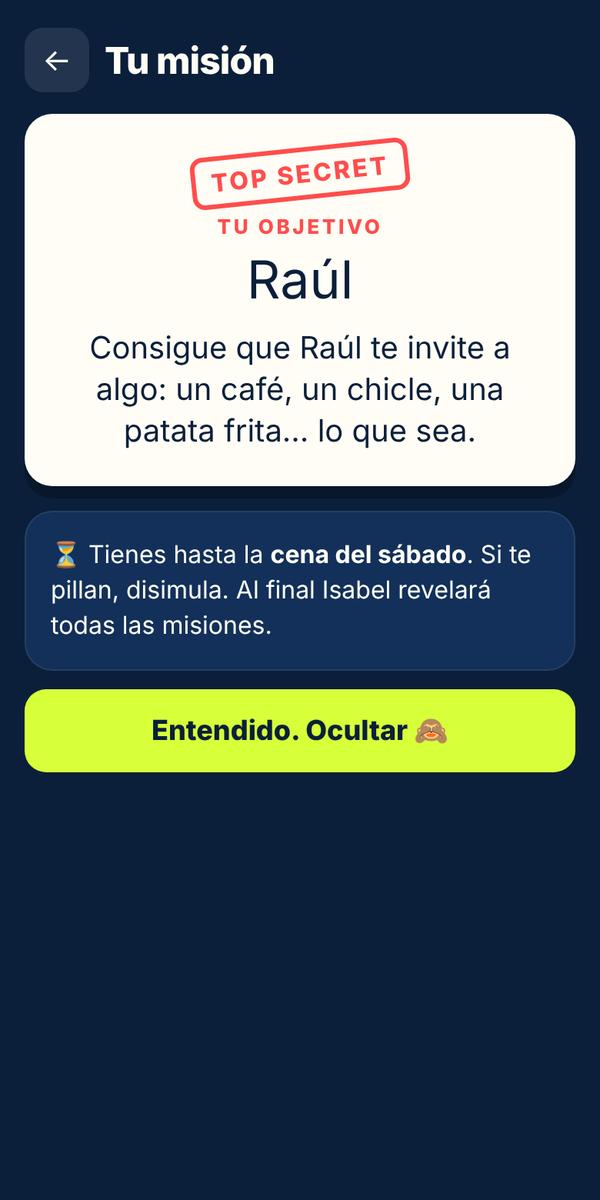
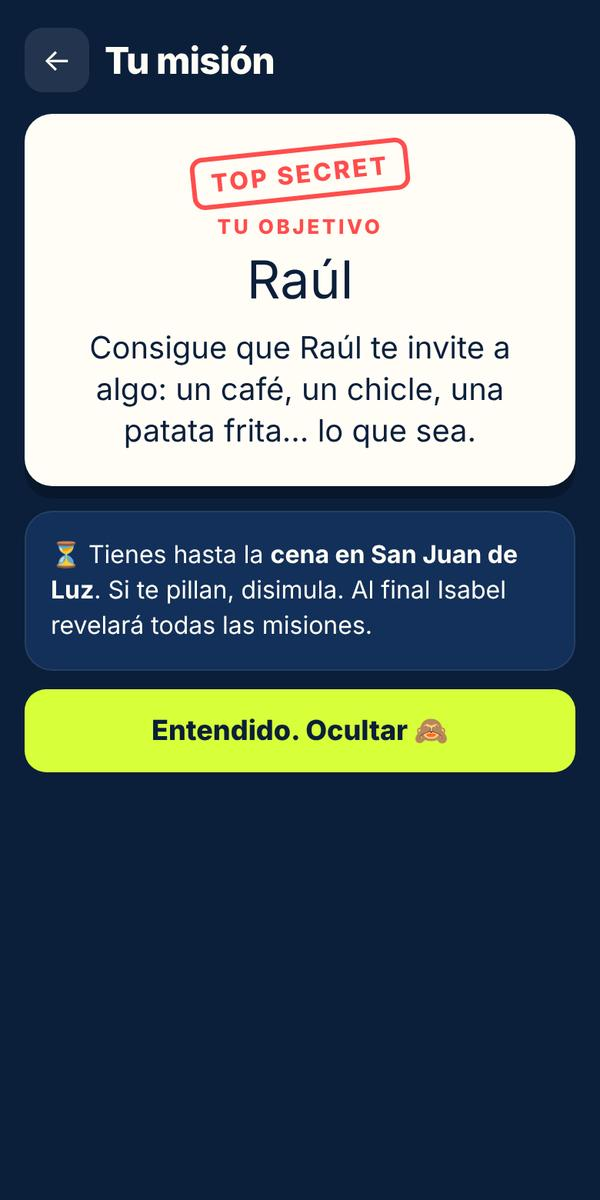
Consejos de veteranos, misión nueva, itinerario real (Alcalá, Burgos, San Juan de Luz) y 3 preguntas más
Claude-Session: https://claude.ai/code/session_016PK8MS4tbaT5dERcZ1YUJ1

Changed region(s): [[0.09, 0.4317, 0.87, 0.555]]

diff --git a/index.html b/index.html
@@ -138,6 +138,7 @@ const COCHES = [
   { id:4, nombre:"Coche de Paula Rovira",conductor:"Paula Rovira", pasajeros:["Rosa","Sandra"] },
   { id:5, nombre:"Coche de Jorge",       conductor:"Jorge",        pasajeros:["José Enrique","Merche","Maite"] },
 ];
+const VETERANOS = ["Luis","Fernando","Raúl"];
 const PIN_PRESENTADORA = "1919";
 const CODIGO_RONDA2 = "MORCILLA";
 const SEGUNDOS = 25;
@@ -148,29 +149,31 @@ const MISIONES = [
   "Hazte un selfie en el que salga {T} detrás de ti sin que se dé cuenta.",
   "Consigue que {T} diga la palabra «agujetas».",
   "Logra que {T} te enseñe una foto de su móvil (mascota, hijos, vacaciones…).",
-  "Choca los cinco con {T} tres veces antes de la cena del sábado.",
-  "Haz que {T} pruebe algo típico de Burgos y que te dé las gracias.",
+  "Choca los cinco con {T} tres veces antes de la cena en San Juan de Luz.",
+  "Haz que {T} pruebe algo típico de Burgos en el desayuno y que te dé las gracias.",
   "Averigua cuál es la carrera o el reto deportivo más loco que ha hecho {T}.",
   "Consigue que {T} te dé un consejo para la carrera… y que te lo repita.",
   "Logra que {T} cante, aunque sea un trozo, alguna canción.",
   "Haz que {T} se ría con un chiste malo tuyo.",
   "Averigua de qué pueblo es la familia de {T}.",
   "Consigue que {T} te preste algo (gorra, gafas, boli…) y devuélveselo al final.",
-  "Haz que {T} diga «¡Aupa!» sin pedírselo directamente.",
-  "Consigue sentarte al lado de {T} en la cena del sábado.",
+  "Averigua cuál es la comida o el plato favorito de {T}.",
+  "Consigue sentarte al lado de {T} en la cena de San Juan de Luz.",
   "Hazte una foto con {T} en la que los dos pongáis exactamente la misma pose.",
   "Consigue que {T} te diga cuál es su canción para correr.",
 ];
 
 const RONDAS = {
-  1: { titulo:"Ronda 1 · Madrid → Burgos", preguntas:[
+  1: { titulo:"Ronda 1 · Alcalá → Burgos", preguntas:[
     { q:"¿Cuántos coches forman esta expedición?", o:["3","4","5","6"], a:2,
       f:"Cinco coches rumbo a Donosti. ¡Una caravana de campeones!" },
+    { q:"Habéis salido de Alcalá de Henares. ¿Qué famoso escritor nació allí?", o:["Lope de Vega","Quevedo","Cervantes","Góngora"], a:2,
+      f:"Miguel de Cervantes, en 1547. Y la ciudad es Patrimonio de la Humanidad por su universidad y su casco histórico." },
     { q:"¿Cuántos kilómetros tiene la Behobia–San Sebastián?", o:["21,097 km","20 km","18 km","25 km"], a:1,
       f:"Son 20 km, no una media maratón. ¡Aunque con las cuestas parecen más!" },
     { q:"¿En qué año se corrió la primera Behobia?", o:["1919","1951","1936","1979"], a:0,
       f:"El 30 de marzo de 1919. Más de 100 años de historia." },
-    { q:"Saliendo de Madrid por la A-1, ¿qué puerto de montaña cruzáis?", o:["Navacerrada","Somosierra","Despeñaperros","Pajares"], a:1,
+    { q:"Rumbo a Burgos por la A-1, ¿qué puerto de montaña cruzáis?", o:["Navacerrada","Somosierra","Despeñaperros","Pajares"], a:1,
       f:"Somosierra, a unos 1.444 m. Al otro lado ya estáis en la provincia de Segovia, en Castilla y León." },
     { q:"¿Cuántos del grupo ya han corrido la Behobia antes?", o:["Ninguno","Uno","Tres","Todos"], a:2,
       f:"Luis, Fernando y Raúl. ¡Veteranos, os toca dar consejos!" },
@@ -212,6 +215,8 @@ const RONDAS = {
       f:"El Bidasoa hace de frontera. El Urumea es el que cruza Donosti." },
     { q:"En la Isla de los Faisanes, muy cerca de la salida, se firmó…", o:["La Paz de los Pirineos","El Tratado de Tordesillas","La Paz de Westfalia","La Constitución de Bayona"], a:0,
       f:"En 1659. Es una isla que España y Francia gestionan por turnos de 6 meses." },
+    { q:"En 1660 se casó en San Juan de Luz un rey francés con una infanta española. ¿Quién era el rey?", o:["Luis XVI","Enrique IV","Napoleón","Luis XIV"], a:3,
+      f:"Luis XIV se casó con María Teresa de Austria, y así se selló la Paz de los Pirineos, la de la Isla de los Faisanes." },
     { q:"¿Cuántos corredores tomaron la salida en la primera edición?", o:["7","22","150","1.000"], a:1,
       f:"22 atletas en 1919. Hoy son unos 30.000." },
     { q:"¿Cómo se llama la playa más famosa de Donosti?", o:["Zurriola","Ondarreta","La Concha","Santa Clara"], a:2,
@@ -244,6 +249,8 @@ const RONDAS = {
       f:"La Tamborrada: miles de donostiarras desfilan con tambores y barriles, vestidos de cocineros y soldados." },
     { q:"¿De qué fruta se hace el pacharán?", o:["Cerezas","Moras","Endrinas","Manzanas"], a:2,
       f:"De endrinas maceradas en anís. Típico de Navarra y del País Vasco." },
+    { q:"Esta noche cenáis en San Juan de Luz (Saint-Jean-de-Luz). ¿En qué país está?", o:["España","Andorra","Francia","Portugal"], a:2,
+      f:"En Francia, a un paso de la frontera y muy cerca de la salida de la Behobia." },
     { q:"¿De qué provincia es capital Donostia?", o:["Bizkaia","Álava","Navarra","Gipuzkoa"], a:3,
       f:"De Gipuzkoa. Bilbao es de Bizkaia y Vitoria-Gasteiz, la capital vasca, de Álava." },
   ]},
@@ -275,7 +282,7 @@ const VIEWS = {};
 VIEWS.home = () => {
   app.innerHTML = `
     <div class="bib">
-      <div class="tag">Madrid → Donostia · 8 nov 2026</div>
+      <div class="tag">Alcalá → Donostia · 8 nov 2026</div>
       <div class="num">BEHOBIA</div>
       <div class="sub">Operación de los 5 coches</div>
       <div class="stripe"></div>
@@ -316,7 +323,7 @@ VIEWS.misionVer = i => {
       <div class="target">${esc(objetivo(i))}</div>
       <div class="task">${esc(mision(i))}</div>
     </div>
-    <div class="card" style="margin-top:16px"><p style="margin:0">⏳ Tienes hasta la <b>cena del sábado</b>. Si te pillan, disimula. Al final Isabel revelará todas las misiones.</p></div>
+    <div class="card" style="margin-top:16px"><p style="margin:0">⏳ Tienes hasta la <b>cena en San Juan de Luz</b>. Si te pillan, disimula. Al final Isabel revelará todas las misiones.</p></div>
     <button class="btn" onclick="go('home')">Entendido. Ocultar 🙈</button>`;
 };
 
@@ -428,14 +435,19 @@ VIEWS.porra = () => {
     </select>
     <label>🏃 Tu tiempo</label>
     <input id="tYo" placeholder="Ej.: 1:52" inputmode="numeric">
+    <div id="vet" class="hidden"><label>🎖 Veteranos: un consejo para los que corren su primera Behobia</label>
+    <textarea id="consejo" rows="3" placeholder="Ej.: Guarda fuerzas para Miracruz…"></textarea></div>
     <p class="hint">Formato horas:minutos. Se manda al grupo de WhatsApp para que quede por escrito.</p>
     <button class="btn wa" onclick="enviarPorra()">📲 Enviar mi apuesta al grupo</button></div>`;
+  $("#yo").onchange = e => $("#vet").classList.toggle("hidden", !VETERANOS.includes(e.target.value));
 };
 function enviarPorra(){
-  const yo = $("#yo").value, ty = $("#tYo").value.trim();
+  const yo = $("#yo").value, ty = $("#tYo").value.trim(), co = ($("#consejo")||{}).value || "";
   if(!yo){ alert("Elige tu nombre"); return; }
   if(!ty){ alert("Escribe tu tiempo, por ejemplo 1:52"); return; }
-  window.open(wa(`⏱ PORRA BEHOBIA · ${yo}\n🏃 Mi tiempo: ${ty}`), "_blank");
+  let msg = `⏱ PORRA BEHOBIA · ${yo}\n🏃 Mi tiempo: ${ty}`;
+  if(co.trim()) msg += `\n🎖 Consejo de veterano: ${co.trim()}`;
+  window.open(wa(msg), "_blank");
 }
 
 /* ---------- PRESENTADORA ---------- */
@@ -493,10 +505,10 @@ const GUIA = {
     ["img/nombres.jpg","Toca <b>«Mi misión secreta»</b> y luego <b>tu nombre</b>. Hazlo en <b>tu propio móvil</b> y que nadie mire."],
     ["img/confirmar.jpg","Toca <b>«Sí, soy yo»</b>."],
     ["img/mision.jpg","Lee tu misión y quién es tu <b>objetivo</b>. Después toca <b>«Ocultar»</b>."]],
-    nota:"⏳ Tienes hasta la <b>cena del sábado</b> para cumplirla sin que te pillen. Puedes volver a mirarla cuando quieras.<br>🏆 Al final Isabel las revela todas: cada misión cumplida da <b>50 puntos</b> a tu coche." },
+    nota:"⏳ Tienes hasta la <b>cena en San Juan de Luz</b> para cumplirla sin que te pillen. Puedes volver a mirarla cuando quieras.<br>🏆 Al final Isabel las revela todas: cada misión cumplida da <b>50 puntos</b> a tu coche." },
   concurso: { e:"🧠", t:"El concurso por coches", ir:"quizCoche", pasos:[
     ["img/coches.jpg","Se juega con <b>UN solo móvil por coche</b> (copiloto o alguien de atrás). Toca <b>«Concurso por coches»</b> y elige <b>vuestro coche</b>."],
-    ["img/rondas.jpg","Toca la <b>Ronda 1</b> (Madrid → Burgos)."],
+    ["img/rondas.jpg","Toca la <b>Ronda 1</b> (Alcalá → Burgos)."],
     ["img/pregunta.jpg","Leed la pregunta en voz alta y <b>tocad la respuesta</b>. ¡Hay cuenta atrás! Cuanto antes respondáis, más puntos."],
     ["img/respuesta.jpg","Verde = acierto. Toca <b>«Siguiente»</b>."],
     ["img/resultado.jpg","Al final, toca el botón verde <b>«Mandar resultado al grupo»</b> y elige el grupo de WhatsApp."],
@@ -505,13 +517,14 @@ const GUIA = {
   porra: { e:"⏱", t:"La porra", ir:"porra", pasos:[
     ["img/porra.jpg","Toca <b>«La porra»</b> y elige <b>tu nombre</b> en la lista."],
     [null,"Escribe cuánto crees que vas a tardar <b>tú</b>. Así: <span class='code'>1:55</span> (horas:minutos)."],
+    [null,"Si eres veterano (Luis, Fernando o Raúl), deja un <b>consejo</b> para los que corren su primera Behobia."],
     [null,"Toca el botón verde. Se abre WhatsApp: elige el <b>grupo</b> y dale a <b>enviar</b>."]],
     nota:"🏆 Premio de honor para quien más se acerque a su propia apuesta." },
   puntos: { e:"🏆", t:"Cómo gana un coche", pasos:[
     [null,"<b>Concurso:</b> 100 puntos por acierto y hasta 50 más por responder rápido. Dos rondas de 20 preguntas."],
     [null,"<b>Reto de Burgos:</b> en la parada, Isabel anuncia un reto para cada coche. Hasta 100 puntos."],
     [null,"<b>Misiones secretas:</b> 50 puntos al coche por cada misión cumplida."],
-    [null,"En la <b>cena del sábado</b> Isabel revela las misiones y enseña la clasificación final."]] },
+    [null,"En la <b>cena en San Juan de Luz</b> Isabel revela las misiones y enseña la clasificación final."]] },
 };
 function helpBtn(k, from){ return `<button class="helplink" onclick="go('guia',{k:'${k}',from:'${from}'})">❓ ¿Cómo funciona esto? Toca aquí</button>`; }
 
@@ -543,10 +556,12 @@ VIEWS.guiaIsabel = () => {
     <div class="card"><h3>🔑 Tus claves</h3><p style="font-size:18px;margin-bottom:0">PIN del panel: <span class="code">${PIN_PRESENTADORA}</span><br>Código ronda 2: <span class="code">${CODIGO_RONDA2}</span></p></div>
     <div class="gwarn">📱 Usa <b>siempre este mismo móvil</b> para el panel: los puntos se guardan aquí. En tu coche, que lleve el concurso <b>Lucía</b>. ¡Tú no mires las preguntas!</div>
     <h3 style="margin:18px 0 10px">🗓 Qué hacer en cada momento</h3>
-    <div class="tl"><b>🚗 Salida de Madrid</b><span>Manda el enlace. Que todos vean su misión. Cada coche juega la <b>Ronda 1</b>.</span></div>
-    <div class="tl"><b>☕ Parada en Burgos</b><span>Entra en el panel. Di en voz alta el código <span class="code">${CODIGO_RONDA2}</span>. Lee el <b>reto de la foto</b> y da a cada coche de 0 a 100 puntos.</span></div>
-    <div class="tl"><b>🚗 Burgos → Donosti</b><span>Cada coche juega la <b>Ronda 2</b> y manda sus puntos al grupo. Apúntalos en el marcador.</span></div>
-    <div class="tl"><b>🍽 Cena del sábado</b><span>Toca <b>«Revelar todas»</b> y lee las misiones en voz alta. Cada misión cumplida: <b>50 puntos</b>. Luego <b>«Mostrar clasificación»</b>. 🏆</span></div>
+    <div class="tl"><b>🚗 Sábado 8:00 · Salida de Alcalá</b><span>Manda el enlace <b>la víspera</b> para que cada uno vea su misión antes de salir. En la carretera, cada coche juega la <b>Ronda 1</b>.</span></div>
+    <div class="tl"><b>☕ Desayuno en Burgos</b><span>Entra en el panel. Di en voz alta el código <span class="code">${CODIGO_RONDA2}</span>. Lee el <b>reto de la foto</b> y da a cada coche de 0 a 100 puntos.</span></div>
+    <div class="tl"><b>🚗 Burgos → San Sebastián</b><span>Cada coche juega la <b>Ronda 2</b> y manda sus puntos al grupo. Apúntalos en el marcador.</span></div>
+    <div class="tl"><b>🍽 Comida en San Sebastián</b><span>Hora de comer y de apuntar los puntos que falten.</span></div>
+    <div class="tl"><b>🌙 Cena en San Juan de Luz</b><span>Toca <b>«Revelar todas»</b> y lee las misiones en voz alta. Cada misión cumplida: <b>50 puntos</b>. Luego <b>«Mostrar clasificación»</b>. 🏆</span></div>
+    <div class="tl"><b>🏃 Domingo · La Behobia</b><span>¡A disfrutar! Todos con su dorsal y su tiempo de la porra en la cabeza.</span></div>
     <div class="tl"><b>🏁 Después de la carrera</b><span>Mirad en WhatsApp quién se ha acercado más a su apuesta de la porra.</span></div>
     <div class="gstep"><span class="gn">2</span><p style="display:inline">En el <b>marcador</b>, escribe los puntos de cada coche en su casilla (R1, R2, Burgos, Misiones). Se suman solos.</p><img src="img/marcador.jpg" alt=""></div>
     <div class="gstep"><span class="gn">3</span><p style="display:inline">Toca <b>«Mostrar clasificación»</b> y enseña el móvil a todos.</p><img src="img/clasif.jpg" alt=""></div>
